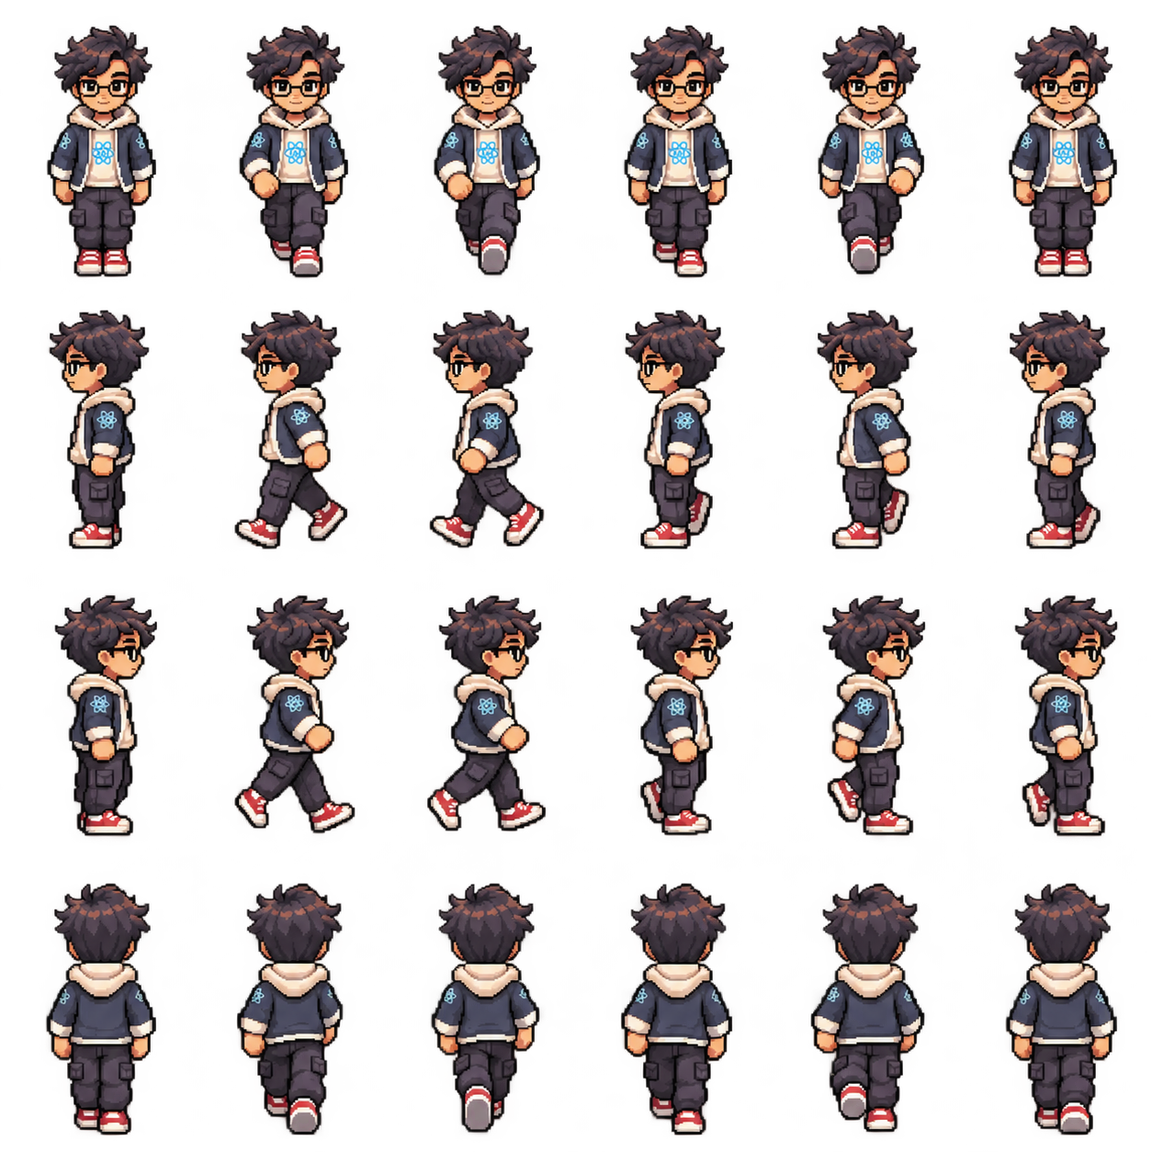
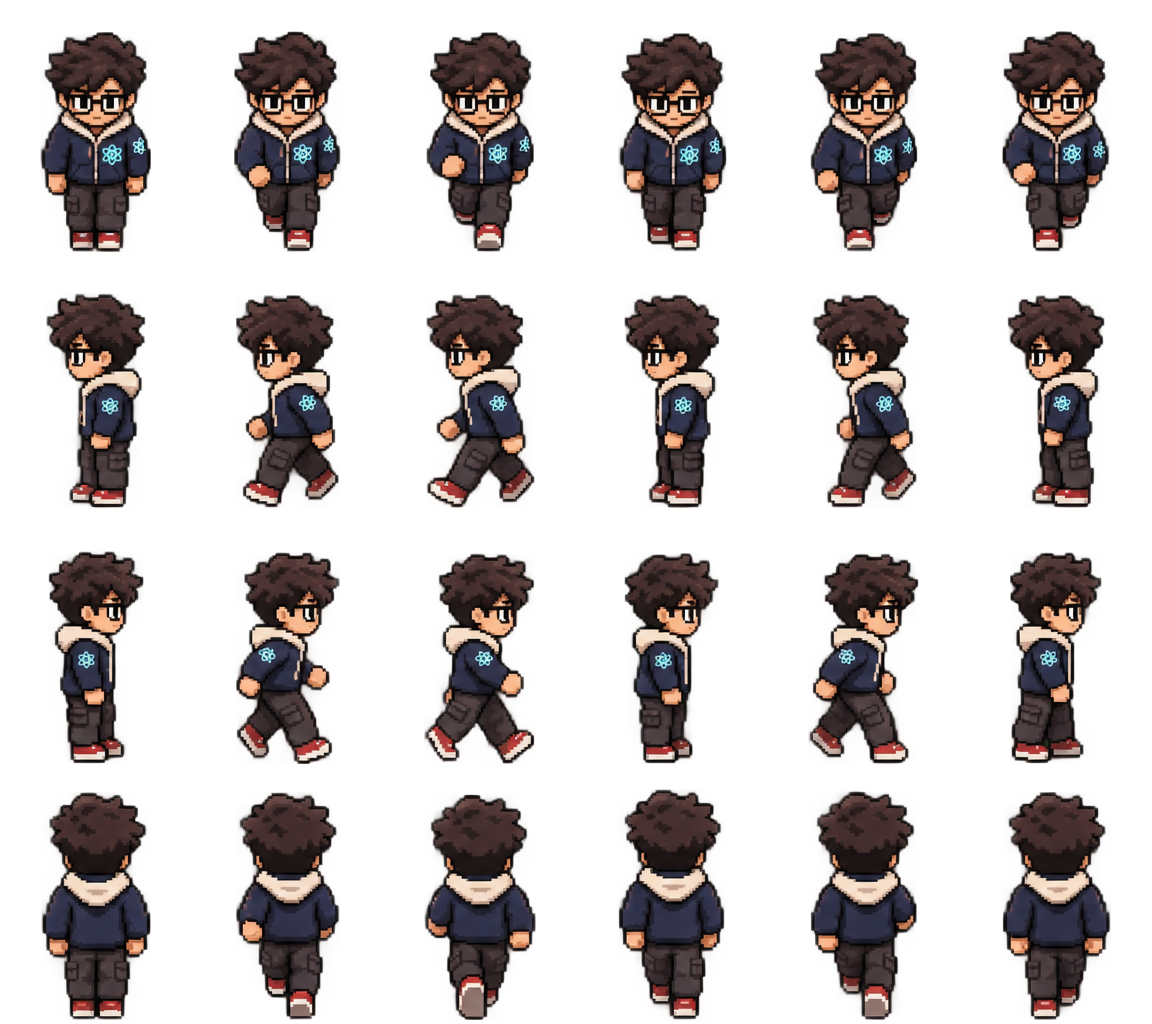
feat: align and integrate new high-contrast pixel character sprite sheet

diff --git a/src/game/entities/Player.ts b/src/game/entities/Player.ts
@@ -27,15 +27,15 @@ export class Player {
     this.facing = facing;
 
     // Shadow sits slightly below the player sprite in depth order
-    this.shadow = scene.add.image(x, y - 2, "shadow");
+    this.shadow = scene.add.image(x, y, "shadow");
     this.shadow.setOrigin(0.5, 0.5);
-    this.shadow.setDisplaySize(22, 9);
+    this.shadow.setDisplaySize(20, 8);
     this.shadow.setAlpha(0.55);
     this.shadow.setDepth(0);
 
-    // Player sprite anchored at feet (0.5, 1) so sprite sits above shadow
+    // Player sprite anchored at feet baseline so sprite stands on shadow
     this.sprite = scene.add.sprite(x, y, "player");
-    this.sprite.setOrigin(0.5, 1);
+    this.sprite.setOrigin(0.5, 0.985);
     const scale = PLAYER_SPRITE.displayWidth / PLAYER_SPRITE.frameWidth;
     this.sprite.setScale(scale);
     this.sprite.setDepth(1);

diff --git a/src/game/config.ts b/src/game/config.ts
@@ -41,9 +41,9 @@ export const LIGHT_POLE = {
 /** Player sprite sheet layout for me.png (6 columns x 4 rows) */
 export const PLAYER_SPRITE = {
   frameWidth: 192,
-  frameHeight: 288,
-  displayWidth: 28,
-  displayHeight: 42,
+  frameHeight: 256,
+  displayWidth: 27,
+  displayHeight: 36,
   columns: 6,
   rows: 4,
   /** Row indices for each facing direction */
